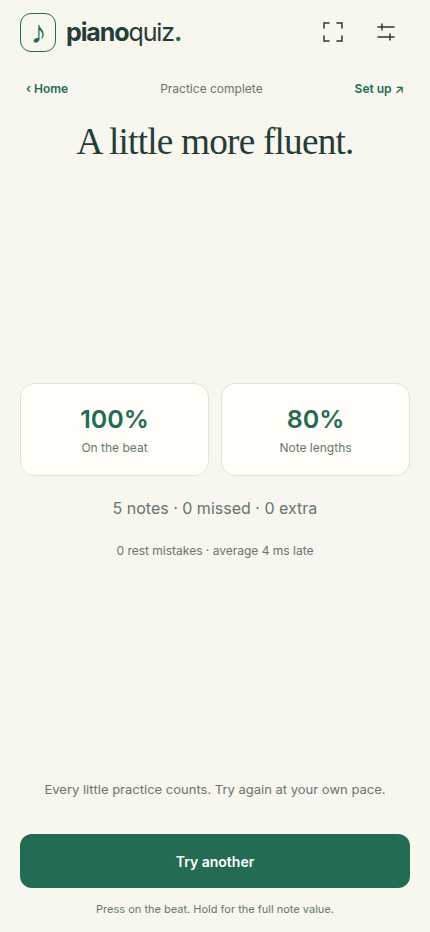
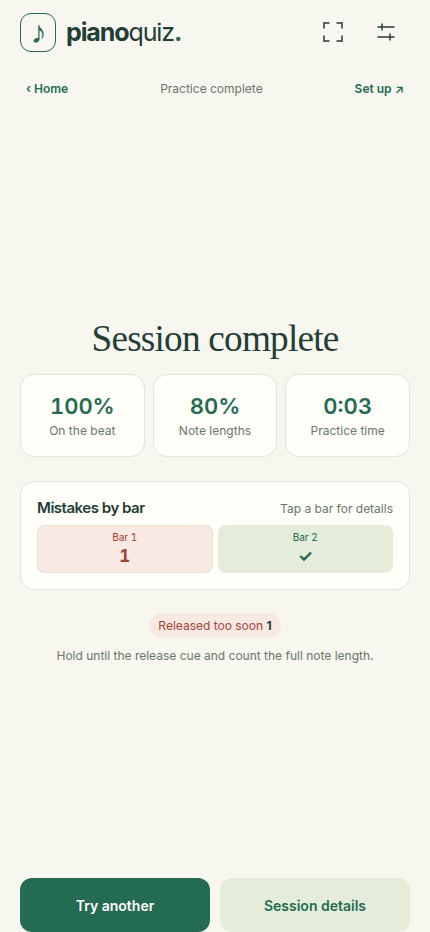
test: verify session reports

diff --git a/docs/VERIFICATION.md b/docs/VERIFICATION.md
@@ -1,94 +1,72 @@
 # Verification
 
-Screen wake-lock and fullscreen update checked on 2026-11-10 (Europe/Warsaw).
+Session-report release checked on 2026-11-11 (Europe/Warsaw).
 
 - Play: **https://piano-quiz.pages.dev/**
-- Release: `7ec3cb31f0f6a5`
-- Production deployment: `3dcf1ad1-026b-4099-a3c0-5da387f2ceab`
-- Immutable URL: https://3dcf1ad1.piano-quiz.pages.dev/
+- Release: `169798f621e9a2`
+- Production deployment: `2850a9c7-7d9e-4a0e-85cb-4d78621ee23e`
+- Immutable URL: https://2850a9c7.piano-quiz.pages.dev/
 - Repository: https://github.com/Listwas/piano-quiz
 
 ## Current release
 
-**92 unit tests and 90 browser scenarios passed.** Browser checks ran against
-production, except the isolated update suite, which serves two worker versions
-locally. Every current report below records this release hash and test time.
-No uncaught page errors were recorded.
+**96 unit tests and 72 browser scenarios passed.** The browser checks ran on
+production except for the isolated update suite. Reports below identify the
+build and test time. No uncaught page errors were recorded.
 
 | Check | Chromium | Firefox | WebKit |
 | --- | --- | --- | --- |
-| Screen controls | [7 passed](live-display-chromium.json) | [7 passed](live-display-firefox.json) | [7 passed](live-display-webkit.json) |
-| Safe areas, docks and rotation | [10 passed](live-viewport-chromium.json) | [10 passed](live-viewport-firefox.json) | [10 passed](live-viewport-webkit.json) |
+| Practice and reports | [16 passed](live-training-chromium.json) | [16 passed](live-training-firefox.json) | [16 passed](live-training-webkit.json) |
 | Quiz, themes, storage and offline launch | [20 passed](live-chromium.json) | — | — |
-| Metronome, rhythm and sight-reading | [15 passed](live-training-chromium.json) | — | — |
 | Explicit service-worker updates | [4 passed](update-chromium.json) | — | — |
 
-[Unit report](unit.json). A dash means that suite was not rerun in that engine
-for this release. The preceding broader polish audit is preserved in
-[the November 7 report](https://github.com/Listwas/piano-quiz/blob/6e354ec4b56dcdb081848b9514497137f0f16abd/docs/VERIFICATION.md).
+[Unit report](unit.json). A dash means that suite was not rerun for this build.
+See the [previous audit](https://github.com/Listwas/piano-quiz/blob/aaa9085c5d620f054c4ba22a30de79f801fd0213/docs/VERIFICATION.md)
+for the fullscreen, wake-lock and broader viewport checks.
 
-## Screen behavior
+## Session-report checks
 
-- Keep screen awake defaults on for existing and new users. A screen wake lock
-  is requested while a quiz, metronome or exercise is open, including a paused
-  practice screen. Home and results release it. Users can opt out in App settings.
-- Backgrounding/pagehide releases the lock; returning requests it again while
-  practice remains open. A late request cannot retain a lock after leaving.
-  OS releases and denied requests show their state and offer Retry. Unsupported
-  APIs leave practice usable and explain the limitation.
-- The top-bar four-arrow button and App settings → Screen both call the native
-  fullscreen API with `navigationUI: 'hide'`. Labels follow native entry/exit,
-  including Back/Escape. Refusal opens settings with an explanation and retry.
-- Installed apps now request manifest `display: fullscreen`; unsupported modes
-  use the browser's normal fallback. Viewport fitting runs after native
-  fullscreen transitions. Header controls remain touchable online and offline
-  across phone/tablet portrait and landscape sizes, including 320px width.
+- The sight-reading fixture completes two bars with two retries on the first
+  bar (wrong pitch and short hold). The visible report shows **1/2 first-try
+  bars** and **2 bar retries**, even though the final replay was correct.
+  Bar details show the two distinct mistakes and matched-press timing.
+- A separate replay misses a note in the second bar. Its miss stays in the
+  report after correct replay, and the first bar keeps its clean result.
+- Tests cover earlier mistakes across pauses, time excluding pauses and
+  start/resume count-ins, signed timing distribution, and loading older
+  results without inventing details. Multiple presses in one rhythm rest are
+  reported as one violated rest, including a brief unwanted tap.
+- The eight-bar rhythm fixture deliberately plays no notes. All misses appear
+  on the chart, and timing correctly reports no matched presses. The last bar
+  and bottom actions stay tappable in compact portrait/landscape and tablet
+  sizes. A completed sight-reading report is also checked through rotations
+  with simulated safe areas.
+- The latest detailed report is available from Home after reloading. A bar can
+  be selected directly from the chart or inside the report dialog. The results
+  screen itself stays fixed, with scrolling available inside the dialog.
 
-Both **Chromium and Firefox** acquired and released native screen wake locks,
-and entered/exited native fullscreen in the headless host. Separate simulated
-API cases cover release recovery, persisted opt-out, missing APIs, rejection,
-all four activities, and the exact hidden-navigation request. WebKit checks
-cover its available native paths and the graceful unavailable-API fallback;
-its report records the host's actual capabilities.
-
-Screenshots: [Chromium settings](images/display-settings-chromium.png),
-[Firefox settings](images/display-settings-firefox.png),
-[WebKit settings](images/display-settings-webkit.png). These are actual browser
-captures; the settings scenario uses simulated APIs for deterministic labels.
+Actual browser screenshots: [Sight-reading overview](images/sight-report-chromium.png),
+[bar details](images/sight-report-details-chromium.png),
+[Rhythm overview](images/rhythm-results-chromium.png).
 
 ## Release integrity
 
-All **40 served runtime files** were fetched from production and compared byte
-for byte with `dist/`. Built runtime files were compared with source and the
-source-derived release hash was verified. Home returned HTTP 200. Headers allow
-same-origin `fullscreen`, `screen-wake-lock` and `midi`; CSP was recorded in
-[asset verification](live-assets.json).
+All **41 served runtime files** matched `dist/` byte for byte. Source files
+matched the built runtime and reproduced the release hash. Home returned HTTP
+200; CSP and same-origin MIDI, wake-lock and fullscreen policies were checked.
+See [asset verification](live-assets.json). The 42-file release ZIP was reopened
+and checked for exact members, CRC and bytes; [release.json](release.json)
+records its size and SHA-256. Chromium verified an offline launch and explicit
+service-worker updates that preserve unfinished practice.
 
-The 41-file release ZIP was reopened to verify its exact member list, CRC
-integrity and bytes. [release.json](release.json) records its size and SHA-256.
-The general browser check also confirms a fresh offline launch, sample output,
-saved preferences, and unchanged quiz grading. Training and explicit update
-checks cover bar retries, hold feedback, preparation gaps and preserved progress.
+## Reproduce and limits
 
-## Reproduce
+Run `npm run build`, `npm test`, then `npm run dev`. Run `npm run test:training`
+with `BROWSER=chromium`, `firefox` or `webkit`. Set
+`PIANO_URL=https://piano-quiz.pages.dev/` to test production. See
+[development commands](DEVELOPMENT.md#commands) for other suites.
 
-Build, run `npm test`, and start the preview using `npm run dev`. Run
-`npm run test:display` and `npm run test:viewport` with `BROWSER=chromium`,
-`firefox`, or `webkit`. Set `PIANO_URL=https://piano-quiz.pages.dev/` for production.
-Run browser suites sequentially because reports/screenshots share paths.
-See [all development commands](DEVELOPMENT.md#commands).
-
-## Physical-device limits
-
-No Honor MagicPad 2, iPhone 14 Pro Max or physical MIDI keyboard is attached.
-Native browser API success does not establish physical screen timeout behavior,
-system-bar hiding, gesture navigation behavior, or acoustic/input latency.
-Browser and power policy can decline a wake lock; a manifest cannot force the
-OS to hide system UI. The requested tablet check is opening the updated app,
-tapping the four-arrow button, and leaving a practice screen open beyond the
-usual screen timeout. Physical confirmation is still pending.
-
-WebKit's Linux audio backend cannot start on this host; earlier independent
-checks verify the explicit visual-beat/unavailable-audio fallback. This does
-not establish Safari audio or MIDI support on iPhone. MIDI exercise sound comes
-from the keyboard itself.
+MIDI and safe areas are simulated. Deterministic WebKit exercises use the app's
+visual clock because the headless host audio clock can stall; the native
+metronome scenario is separate. Tests do not measure a physical device's
+MIDI/audio latency.

diff --git a/DEPLOY.md b/DEPLOY.md
@@ -6,9 +6,9 @@ Project: `piano-quiz`, production branch `main`, account
 `3bbe51d8973c406839b993e52753a08c`. This is an independent static Pages app;
 the original `random-piano` app is unchanged.
 
-Release `7ec3cb31f0f6a5` was published as production deployment
-`3dcf1ad1-026b-4099-a3c0-5da387f2ceab`:
-https://3dcf1ad1.piano-quiz.pages.dev/
+Release `169798f621e9a2` was published as production deployment
+`2850a9c7-7d9e-4a0e-85cb-4d78621ee23e`:
+https://2850a9c7.piano-quiz.pages.dev/
 
 ## Publish an update
 
